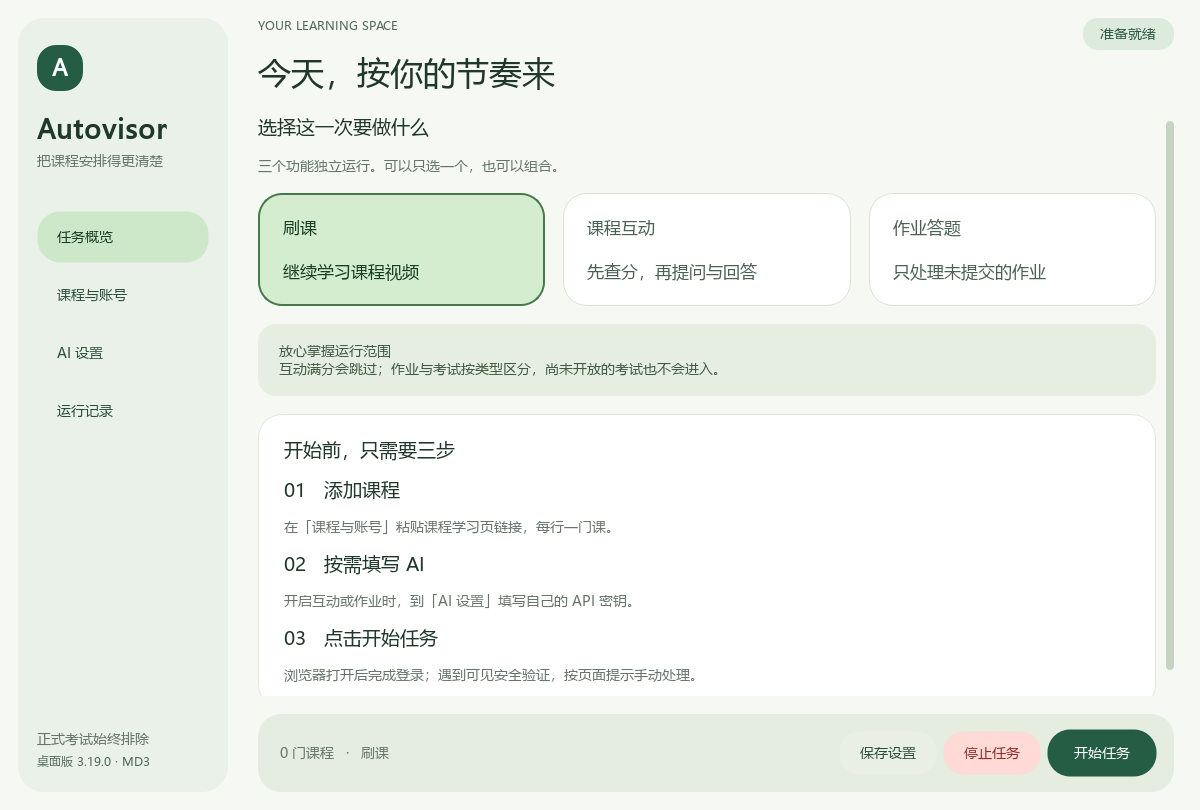
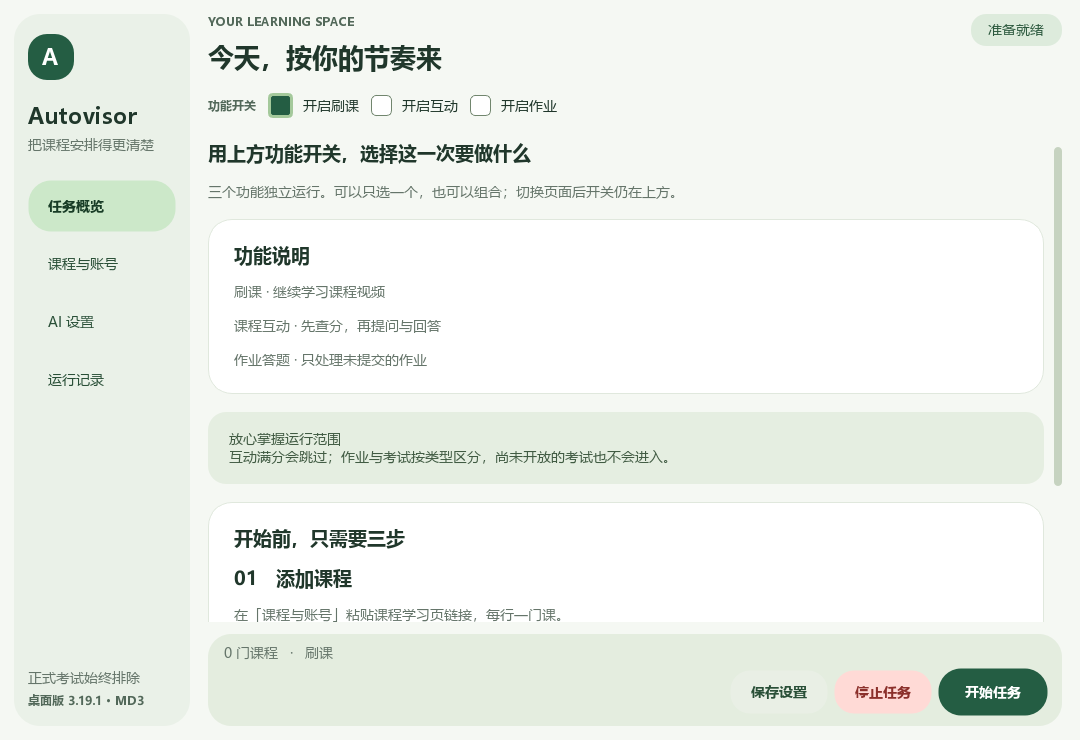
Fix Chinese desktop logs and expose independent task switches

diff --git a/modules/desktop_ui.py b/modules/desktop_ui.py
@@ -22,10 +22,10 @@ STYLE = """
 QWidget {font-family:"Microsoft YaHei UI","Segoe UI";font-size:14px;color:#20372b;}
 QMainWindow,QWidget#shell {background:#f5f8f3;}
 QFrame#rail {background:#eaf1e8;border-radius:26px;}
-QLabel#brand {font-size:26px;font-weight:700;}
+QLabel#brand {font-size:22px;font-weight:700;}
 QLabel#mark {color:white;background:#245d43;border-radius:19px;font-size:22px;font-weight:700;}
 QLabel#eyebrow {color:#526859;font-size:12px;font-weight:600;}
-QLabel#display {font-size:33px;font-weight:650;}
+QLabel#display {font-size:26px;font-weight:650;}
 QLabel#section {font-size:19px;font-weight:600;}
 QLabel#muted {color:#65756a;}
 QLabel#status {background:#ddebdc;color:#2b583d;border-radius:15px;padding:7px 14px;}
@@ -42,9 +42,6 @@ QPushButton#primary:disabled {background:#afc2b0;}
 QPushButton#stop {background:#ffdad6;color:#8b302b;}
 QPushButton#nav {background:transparent;text-align:left;border-radius:23px;padding:15px 19px;font-weight:500;}
 QPushButton#nav:checked {background:#cce8c9;color:#183c26;font-weight:650;}
-QPushButton#mode {background:white;color:#4b6252;border:1px solid #d9e4d6;border-radius:24px;text-align:left;padding:23px;font-size:17px;}
-QPushButton#mode:checked {background:#d4edcf;color:#183e25;border:2px solid #477a4b;}
-QPushButton#mode:hover {background:#e6f1e0;}
 QLineEdit,QPlainTextEdit,QComboBox,QSpinBox,QDoubleSpinBox {background:#f3f6f0;border:1px solid #d5dfd0;border-radius:12px;padding:11px 13px;selection-background-color:#c4e6bf;}
 QLineEdit:focus,QPlainTextEdit:focus,QComboBox:focus,QSpinBox:focus,QDoubleSpinBox:focus {border:2px solid #477a4b;}
 QComboBox::drop-down {border:0;width:30px;}
@@ -95,28 +92,29 @@ class MainWindow(QMainWindow):
         self.stopping = False
         self.setWindowTitle('Autovisor · 课程助手')
         self.setWindowIcon(QIcon(str(self.root / 'resources' / 'zhs.ico')))
-        self.resize(1200, 810)
-        self.setMinimumSize(1000, 680)
+        available = QApplication.primaryScreen().availableGeometry()
+        self.setMinimumSize(min(760, available.width()), min(480, available.height()))
+        self.resize(min(1080, int(available.width() * 0.9)), min(760, int(available.height() * 0.86)))
         self.setStyleSheet(STYLE)
         shell = QWidget()
         shell.setObjectName('shell')
         outer = QHBoxLayout(shell)
-        outer.setContentsMargins(18, 18, 26, 18)
-        outer.setSpacing(30)
+        outer.setContentsMargins(14, 14, 18, 14)
+        outer.setSpacing(18)
         self.setCentralWidget(shell)
         rail = QFrame()
         rail.setObjectName('rail')
-        rail.setFixedWidth(210)
+        rail.setFixedWidth(176)
         rail_layout = QVBoxLayout(rail)
-        rail_layout.setContentsMargins(19, 27, 19, 23)
+        rail_layout.setContentsMargins(14, 20, 14, 18)
         mark = label('A', 'mark')
         mark.setAlignment(Qt.AlignmentFlag.AlignCenter)
         mark.setFixedSize(46, 46)
         rail_layout.addWidget(mark)
         rail_layout.addSpacing(16)
         rail_layout.addWidget(label('Autovisor', 'brand'))
-        rail_layout.addWidget(label('把课程安排得更清楚', 'muted'))
-        rail_layout.addSpacing(35)
+        rail_layout.addWidget(label('把课程安排得更清楚', 'muted', True))
+        rail_layout.addSpacing(20)
         self.stack = QStackedWidget()
         self.navigation = []
         for index, title in enumerate(['任务概览', '课程与账号', 'AI 设置', '运行记录']):
@@ -131,7 +129,7 @@ class MainWindow(QMainWindow):
         rail_layout.addWidget(label(f'桌面版 {__version__} · MD3', 'eyebrow'))
         outer.addWidget(rail)
         content = QVBoxLayout()
-        content.setSpacing(18)
+        content.setSpacing(12)
         header = QHBoxLayout()
         heading = QVBoxLayout()
         heading.addWidget(label('YOUR LEARNING SPACE', 'eyebrow'))
@@ -141,6 +139,18 @@ class MainWindow(QMainWindow):
         self.status = label('准备就绪', 'status')
         header.addWidget(self.status, alignment=Qt.AlignmentFlag.AlignTop)
         content.addLayout(header)
+        switches = QHBoxLayout()
+        switches.addWidget(label('功能开关', 'eyebrow'))
+        self.modes = {}
+        for section, title in [('video', '开启刷课'), ('qa', '开启互动'), ('homework', '开启作业')]:
+            checkbox = QCheckBox(title)
+            checkbox.setAccessibleName(title)
+            checkbox.setChecked(self.settings.enabled(section, default=section == 'video'))
+            checkbox.toggled.connect(self.update_summary)
+            self.modes[section] = checkbox
+            switches.addWidget(checkbox)
+        switches.addStretch()
+        content.addLayout(switches)
         content.addWidget(self.stack, 1)
         self.build_overview()
         self.build_courses()
@@ -148,10 +158,12 @@ class MainWindow(QMainWindow):
         self.build_logs()
         runbar = QFrame()
         runbar.setObjectName('runbar')
-        run_layout = QHBoxLayout(runbar)
-        run_layout.setContentsMargins(22, 15, 17, 15)
-        self.summary = label('', 'muted')
-        run_layout.addWidget(self.summary, 1)
+        run_layout = QVBoxLayout(runbar)
+        run_layout.setContentsMargins(16, 10, 14, 10)
+        self.summary = label('', 'muted', True)
+        run_layout.addWidget(self.summary)
+        actions = QHBoxLayout()
+        actions.addStretch()
         self.save_button = QPushButton('保存设置')
         self.save_button.clicked.connect(self.save)
         self.start_button = QPushButton('开始任务')
@@ -162,7 +174,8 @@ class MainWindow(QMainWindow):
         self.stop_button.setEnabled(False)
         self.stop_button.clicked.connect(self.stop)
         for button in (self.save_button, self.stop_button, self.start_button):
-            run_layout.addWidget(button)
+            actions.addWidget(button)
+        run_layout.addLayout(actions)
         content.addWidget(runbar)
         outer.addLayout(content, 1)
         self.navigate(0)
@@ -182,23 +195,15 @@ class MainWindow(QMainWindow):
 
     def build_overview(self):
         layout = self.scroll_page()
-        layout.addWidget(label('选择这一次要做什么', 'section'))
-        layout.addWidget(label('三个功能独立运行。可以只选一个，也可以组合。', 'muted'))
-        modes = QHBoxLayout()
-        self.modes = {}
+        layout.addWidget(label('用上方功能开关，选择这一次要做什么', 'section', True))
+        layout.addWidget(label('三个功能独立运行。可以只选一个，也可以组合；切换页面后开关仍在上方。', 'muted', True))
+        frame, inner = card('功能说明')
         for section, title, note in [
             ('video', '刷课', '继续学习课程视频'), ('qa', '课程互动', '先查分，再提问与回答'),
             ('homework', '作业答题', '只处理未提交的作业'),
         ]:
-            button = QPushButton(f'{title}\n\n{note}')
-            button.setObjectName('mode')
-            button.setMinimumHeight(146)
-            button.setCheckable(True)
-            button.setChecked(self.settings.enabled(section, default=section == 'video'))
-            button.toggled.connect(self.update_summary)
-            self.modes[section] = button
-            modes.addWidget(button, 1)
-        layout.addLayout(modes)
+            inner.addWidget(label(f'{title} · {note}', 'muted', True))
+        layout.addWidget(frame)
         layout.addWidget(label('放心掌握运行范围\n互动满分会跳过；作业与考试按类型区分，尚未开放的考试也不会进入。', 'notice', True))
         frame, inner = card('开始前，只需要三步')
         for title, note in [
@@ -249,6 +254,7 @@ class MainWindow(QMainWindow):
         layout.addWidget(frame)
         frame, inner = card('登录与浏览器', '账号、密码可留空，开始后在浏览器中手动登录。密码与 API 密钥保存在本机 config.ini，请妥善保管。')
         form = QFormLayout()
+        form.setRowWrapPolicy(QFormLayout.RowWrapPolicy.WrapLongRows)
         form.setSpacing(13)
         self.field(form, '智慧树账号', 'user-account', 'username')
         self.field(form, '登录密码', 'user-account', 'password', secret=True)
@@ -262,6 +268,7 @@ class MainWindow(QMainWindow):
         layout.addWidget(frame)
         frame, inner = card('视频播放', '每门课分别计时。填 0 表示不限时；播放速度范围为 0.5–1.8。')
         form = QFormLayout()
+        form.setRowWrapPolicy(QFormLayout.RowWrapPolicy.WrapLongRows)
         form.setSpacing(13)
         self.field(form, '每课时长 / 分钟', 'course-option', 'limitMaxTime', '30', number='decimal')
         self.field(form, '播放速度', 'course-option', 'limitSpeed', '1.0', number='decimal')
@@ -275,6 +282,7 @@ class MainWindow(QMainWindow):
         layout = self.scroll_page()
         frame, inner = card('连接你的 AI 服务', '支持 OpenAI 兼容接口。密钥由你自行填写，软件不提供共享密钥。')
         form = QFormLayout()
+        form.setRowWrapPolicy(QFormLayout.RowWrapPolicy.WrapLongRows)
         form.setSpacing(13)
         self.field(form, '服务地址', 'ai', 'base_url', 'https://api.deepseek.com')
         self.field(form, 'API 密钥', 'ai', 'api_key', secret=True)
@@ -285,6 +293,7 @@ class MainWindow(QMainWindow):
         layout.addWidget(frame)
         frame, inner = card('课程互动', '先查实际得分，满分就跳过。得分通常次日更新；数量同时作为每课当天上限，填 0 可关闭对应能力。')
         form = QFormLayout()
+        form.setRowWrapPolicy(QFormLayout.RowWrapPolicy.WrapLongRows)
         form.setSpacing(13)
         self.field(form, '每课提问数量', 'qa', 'questions_per_run', '1', number='integer')
         self.field(form, '每课回答数量', 'qa', 'answers_per_run', '1', number='integer')
@@ -385,6 +394,8 @@ class MainWindow(QMainWindow):
         self.save_button.setEnabled(False)
         self.stop_button.setEnabled(True)
         self.status.setText('正在运行')
+        for checkbox in self.modes.values():
+            checkbox.setEnabled(False)
         self.process.start(program, arguments)
 
     def read_output(self):
@@ -405,6 +416,8 @@ class MainWindow(QMainWindow):
         self.start_button.setEnabled(True)
         self.save_button.setEnabled(True)
         self.stop_button.setEnabled(False)
+        for checkbox in self.modes.values():
+            checkbox.setEnabled(True)
         self.status.setText('已停止' if self.stopping else '任务完成' if exit_code == 0 else '有任务未完成')
 
     def process_error(self, error):

diff --git a/scripts/smoke_windows.py b/scripts/smoke_windows.py
@@ -1,0 +1,70 @@
+"""检查真正的冻结程序和中文输出，不启动浏览器或课程任务。"""
+import configparser
+import os
+import subprocess
+import tempfile
+from pathlib import Path
+
+from PySide6.QtCore import QProcess, QProcessEnvironment
+from PySide6.QtWidgets import QApplication
+
+
+def check_bundle(bundle):
+    bundle = Path(bundle).resolve()
+    logs = bundle / 'logs'
+    assert not logs.exists(), '请对刚组装的发行目录执行检查，避免混入旧日志。'
+    environment = os.environ.copy()
+    for key in ('PYTHONPATH', 'PYTHONHOME', 'QT_QPA_PLATFORM'):
+        environment.pop(key, None)
+    environment['PATH'] = str(Path(os.environ['SystemRoot']) / 'System32')
+    environment['PYTHONIOENCODING'] = 'utf-8'
+    app = QApplication.instance() or QApplication([])
+    try:
+        with tempfile.TemporaryDirectory() as directory:
+            checked = subprocess.run(
+                [str(bundle / 'Autovisor.exe'), '--check-ui', '--config', str(bundle / 'config.ini')],
+                cwd=directory, env=environment, timeout=30, capture_output=True,
+            )
+            assert checked.returncode == 0, checked.stderr.decode('utf-8', errors='replace')
+            process = QProcess()
+            process.setProcessChannelMode(QProcess.ProcessChannelMode.MergedChannels)
+            qenv = QProcessEnvironment()
+            for key, value in environment.items():
+                qenv.insert(key, value)
+            process.setProcessEnvironment(qenv)
+            process.setWorkingDirectory(directory)
+            process.start(str(bundle / 'AutovisorWorker.exe'), ['--help'])
+            if not process.waitForFinished(30000):
+                process.kill()
+                process.waitForFinished()
+                raise AssertionError('冻结工作进程未正常退出。')
+            output = bytes(process.readAllStandardOutput()).decode('utf-8')
+            assert process.exitCode() == 0 and '配置文件' in output, output
+            parser = configparser.ConfigParser(interpolation=None)
+            parser.read(bundle / 'config.ini', encoding='utf-8-sig')
+            for section in ('video', 'qa', 'homework'):
+                parser.set(section, 'enabled', 'False')
+            parser.set('script-option', 'enableAutoCaptcha', 'False')
+            config = Path(directory) / 'no-tasks.ini'
+            with config.open('w', encoding='utf-8') as file:
+                parser.write(file)
+            checked = subprocess.run(
+                [str(bundle / 'AutovisorWorker.exe'), '--config', str(config)],
+                cwd=directory, env=environment, timeout=30, capture_output=True,
+            )
+            output = checked.stdout.decode('utf-8')
+            errors = checked.stderr.decode('utf-8')
+            assert checked.returncode == 0, output + errors
+            assert '程序启动中' in output and '本轮没有需要执行的任务' in output, output
+    finally:
+        # 仅清理由本次无任务检查生成的日志；不将测试日志装入 ZIP。
+        if logs.exists():
+            for path in logs.iterdir():
+                assert path.is_file() and path.suffix == '.txt'
+                path.unlink()
+            logs.rmdir()
+    print('冻结桌面启动、Qt 管道中文、正常运行中文日志检查通过。')
+
+
+if __name__ == '__main__':
+    check_bundle(Path(__file__).resolve().parents[1] / 'dist' / 'Autovisor')

diff --git a/tests/test_desktop.py b/tests/test_desktop.py
@@ -87,3 +87,39 @@ class DesktopWindowTests(unittest.TestCase):
             with patch.object(window.process, 'start') as start, patch.object(QMessageBox, 'information'):
                 window.start()
             start.assert_not_called()
+
+    def test_mode_checkboxes_remain_visible_on_all_pages_in_small_window(self):
+        from PySide6.QtWidgets import QCheckBox
+        from modules.desktop_ui import MainWindow
+        with tempfile.TemporaryDirectory() as directory:
+            path = Path(directory) / 'config.ini'
+            shutil.copyfile('config.ini.example', path)
+            window = MainWindow(path)
+            self.addCleanup(window.close)
+            window.show()
+            for width, height in ((800, 560), (760, 480)):
+                window.resize(width, height)
+                for page in range(window.stack.count()):
+                    window.navigate(page)
+                    self.app.processEvents()
+                    self.assertLessEqual(window.width(), width)
+                    self.assertLessEqual(window.height(), height)
+                    for checkbox in window.modes.values():
+                        self.assertIsInstance(checkbox, QCheckBox)
+                        self.assertTrue(checkbox.isVisible())
+                        self.assertTrue(window.rect().contains(checkbox.mapTo(window, checkbox.rect().bottomRight())))
+                    self.assertTrue(window.rect().contains(window.start_button.mapTo(window, window.start_button.rect().bottomRight())))
+
+    def test_chinese_log_split_inside_utf8_character_is_rendered_correctly(self):
+        from modules.desktop_ui import MainWindow
+        with tempfile.TemporaryDirectory() as directory:
+            path = Path(directory) / 'config.ini'
+            shutil.copyfile('config.ini.example', path)
+            window = MainWindow(path)
+            self.addCleanup(window.close)
+            raw = '课程日志：正在学习，已保存答案。\n'.encode('utf-8')
+            pieces = [raw[:2], raw[2:7], raw[7:11], raw[11:]]
+            with patch.object(window.process, 'readAllStandardOutput', side_effect=pieces):
+                for _ in pieces:
+                    window.read_output()
+            self.assertEqual(window.console.toPlainText(), '课程日志：正在学习，已保存答案。\n')

diff --git a/tests/test_console_io.py b/tests/test_console_io.py
@@ -1,0 +1,26 @@
+import io
+import unittest
+from unittest.mock import patch
+
+from modules.console_io import configure_utf8_output
+
+
+class ConsoleEncodingTests(unittest.TestCase):
+    def test_chinese_stdout_and_stderr_are_utf8_even_when_initially_gbk(self):
+        output, errors = io.BytesIO(), io.BytesIO()
+        stdout = io.TextIOWrapper(output, encoding='gbk', newline='\n')
+        stderr = io.TextIOWrapper(errors, encoding='gbk', newline='\n')
+        with patch('sys.stdout', stdout), patch('sys.stderr', stderr):
+            configure_utf8_output()
+            stdout.write('课程日志：正在学习 ✓\n')
+            stderr.write('错误提示：连接超时\n')
+            stdout.flush()
+            stderr.flush()
+        self.assertEqual(output.getvalue().decode('utf-8'), '课程日志：正在学习 ✓\n')
+        self.assertEqual(errors.getvalue().decode('utf-8'), '错误提示：连接超时\n')
+
+    def test_capture_streams_and_missing_console_are_supported(self):
+        captured = io.StringIO()
+        with patch('sys.stdout', captured), patch('sys.stderr', None):
+            configure_utf8_output()
+        self.assertEqual(captured.getvalue(), '')

diff --git a/scripts/build_windows.py b/scripts/build_windows.py
@@ -81,6 +81,8 @@ def main():
     forbidden = {'cookies.json', 'activities.json', 'QRcode.jpg'}
     assert not any(p.name in forbidden for p in bundle.rglob('*'))
     assert not (bundle / 'logs').exists()
+    from scripts.smoke_windows import check_bundle
+    check_bundle(bundle)
     archive = shutil.make_archive(str(ROOT / 'dist' / f'Autovisor-{__version__}-windows-amd64'), 'zip', ROOT / 'dist', 'Autovisor')
     digest = hashlib.sha256(Path(archive).read_bytes()).hexdigest()
     (ROOT / 'dist' / 'SHA256SUMS.txt').write_text(f'{digest}  {Path(archive).name}\n', encoding='utf-8')

diff --git a/Autovisor.py b/Autovisor.py
@@ -13,6 +13,7 @@ from playwright._impl._errors import TargetClosedError
 from modules import installer, updater
 from modules.banner import print_banner
 from modules.configs import Config, ConfigError
+from modules.console_io import configure_utf8_output
 from modules.course_activities import run_course_activities
 from modules.course_runner import (
     CourseOutcome,
@@ -399,6 +400,7 @@ def parse_args():
 
 def cli() -> int:
     global logger
+    configure_utf8_output()
     args = parse_args()
     print_banner()
     logger = Logger()

diff --git a/modules/console_io.py b/modules/console_io.py
@@ -1,0 +1,9 @@
+"""工作进程与桌面窗口约定使用 UTF-8，不依赖系统代码页或冻结程序的环境变量处理。"""
+import sys
+
+
+def configure_utf8_output():
+    for stream in (sys.stdout, sys.stderr):
+        reconfigure = getattr(stream, 'reconfigure', None)
+        if reconfigure:
+            reconfigure(encoding='utf-8', errors='replace')

diff --git a/modules/version.py b/modules/version.py
@@ -1,2 +1,2 @@
 # encoding=utf-8
-__version__ = "3.19.0"
+__version__ = "3.19.1"

diff --git a/README.md b/README.md
@@ -37,7 +37,7 @@
 
 ### 3. 选择运行功能
 
-回到“任务概览”，点击功能卡片。绿色表示开启，再点一下可以关闭。
+在窗口顶部的“功能开关”中，勾选“开启刷课”“开启互动”或“开启作业”。三个功能独立开关，切换页面后仍然可见。
 
 |功能|会做什么|需要 AI 密钥吗|
 |---|---|---|
